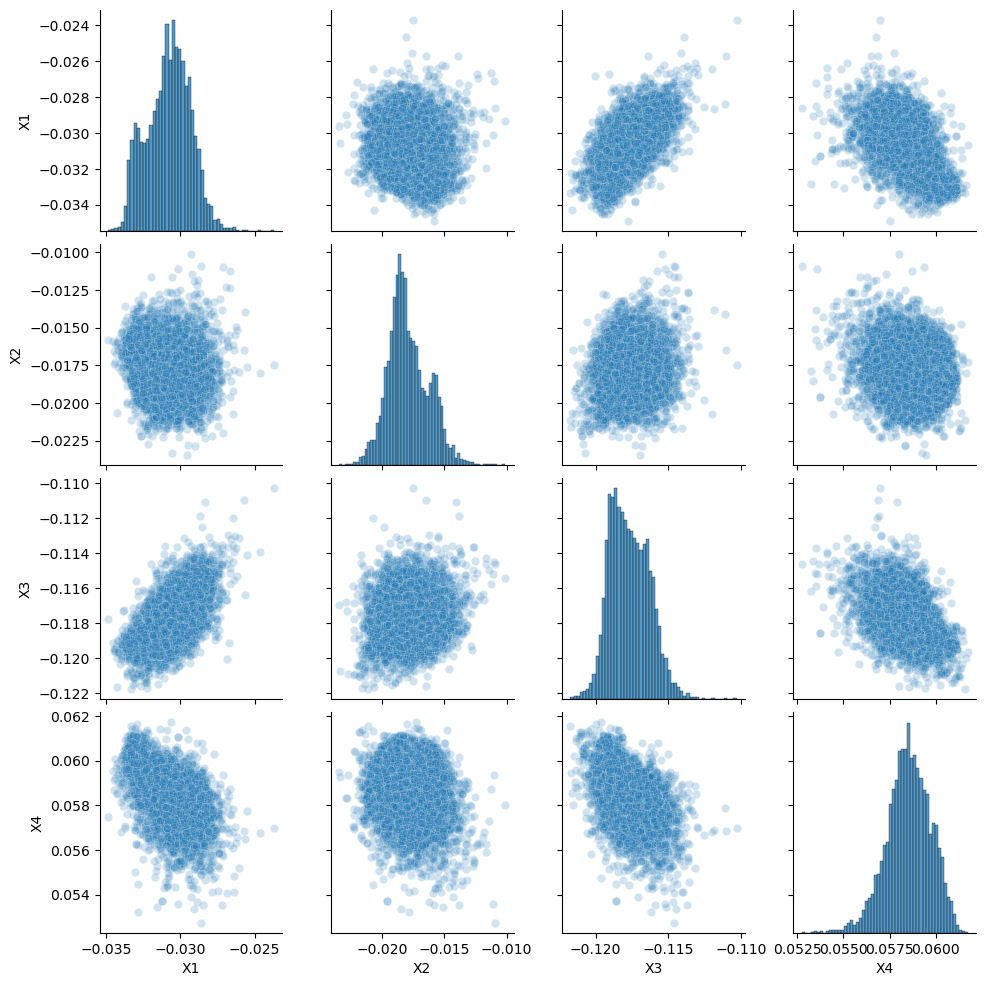
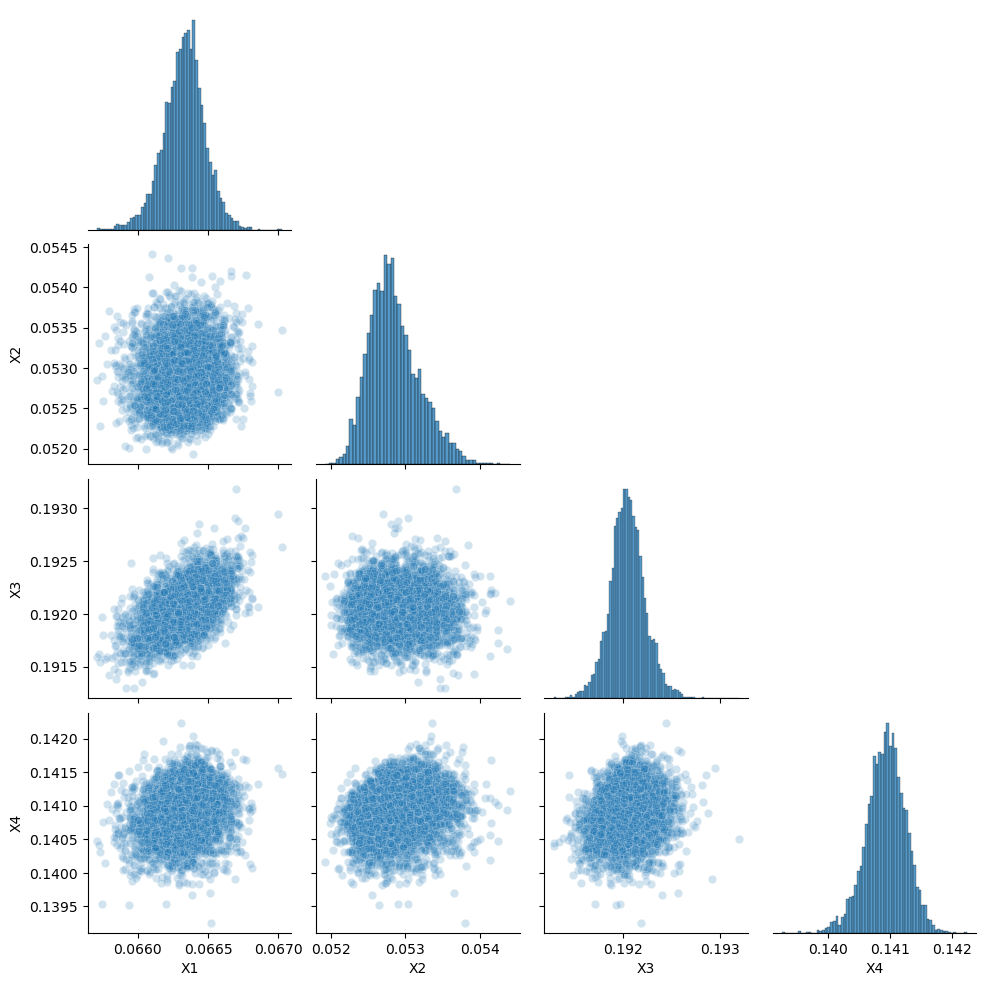
deeper model, saving latent space in csv

diff --git a/modelLib.py b/modelLib.py
@@ -47,21 +47,25 @@ class decodeBlock(nn.Module):
 class autoencoder(nn.Module):
     def __init__(self):
         super().__init__()
-        self.down1 = encodeBlock(1,3) # 1x64x64 > 3x16x16
-        self.down2 = encodeBlock(3,5) # 3x16x16 > 5x4x4
-        self.down3 = encodeBlock(5,4, last=True) # 5x4x4 > Nx1x1
-        self.up1 = decodeBlock(4,5) 
-        self.up2 = decodeBlock(5,3) 
-        self.up3 = decodeBlock(3,1, last=True) 
+        self.down1 = encodeBlock(1,3) # 1x256x256 > 3x64x64
+        self.down2 = encodeBlock(3,5) # 3x64x64 > 5x16x16
+        self.down3 = encodeBlock(5,7) # 5x16x16 > 7x4x4
+        self.down4 = encodeBlock(7,4) # 7x4x4 > Nx1x1
+        self.up1 = decodeBlock(4,7) 
+        self.up2 = decodeBlock(7,5) 
+        self.up3 = decodeBlock(5,3) 
+        self.up4 = decodeBlock(3,1) 
 
     def forward(self,x):
         x = self.down1(x)
         x = self.down2(x)
         x = self.down3(x)
+        x = self.down4(x)
         
         ls = x.flatten()
 
         x = self.up1(x)
         x = self.up2(x)
         x = self.up3(x)
+        x = self.up4(x)
         return ls, x     

diff --git a/dataLoader.py b/dataLoader.py
@@ -29,8 +29,8 @@ class myDataset(torch.utils.data.Dataset):
 
         self.transformIn = transforms.Compose([
                      transforms.Grayscale(num_output_channels=1),
-                     transforms.Resize(64),
-                     transforms.CenterCrop(64),
+                     transforms.Resize(256),
+                     transforms.CenterCrop(256),
                      transforms.ToTensor()])
         
     def __len__(self):
@@ -44,7 +44,7 @@ class myDataset(torch.utils.data.Dataset):
     def loadFromFile(self, filepath):
         img = Image.open(filepath)
         inImg = self.transformIn(img)
-        inImg = np.reshape(inImg, (1,1,64,64))
+        inImg = np.reshape(inImg, (1,1,256,256))
         return inImg
 
 # save checkpoint

diff --git a/predictAutoencoder.py b/predictAutoencoder.py
@@ -39,8 +39,11 @@ def assessAE(chkptFile):
         X4.append(ls[3].item())
 
     df = pd.DataFrame(data=list(zip(X1,X2,X3,X4)),columns=["X1","X2","X3","X4"])
-    plt = sns.pairplot(df, plot_kws={"alpha":0.2})
+    plt = sns.pairplot(df, corner=True, plot_kws={"alpha":0.2})
     plt.savefig(os.path.join(RESULTSDIR,"assessLatentSpace.png"))    
+
+    df["fileName"] = dataset.files
+    df.to_csv(os.path.join(RESULTSDIR,"reducedData.csv"))
 
 if __name__=="__main__":
     import sys

diff --git a/trainAutoencoder.py b/trainAutoencoder.py
@@ -15,7 +15,7 @@ loader_val = torch.utils.data.DataLoader(dataset_val, batch_size=BATCHSIZE, num_
 
 # Initialize ML Model
 model = autoencoder().to(DEVICE)
-print(summary(model, torch.zeros(1,1,64,64)))
+print(summary(model, torch.zeros(1,1,256,256)))
 
 reconLoss = torch.nn.MSELoss()
 optimizer = torch.optim.Adam(model.parameters())

diff --git a/environment.py b/environment.py
@@ -3,7 +3,7 @@ DATADIR = "./data"
 RESULTSDIR = "./results"
 BATCHSIZE = 4
 EPOCH0 = 0
-NEPOCHS = 200
+NEPOCHS = 50
 SAVEINTERVAL = 10
 RANDOMSEED = 42
 DATALIMIT = None

diff --git a/README.md b/README.md
@@ -7,3 +7,6 @@
 
 ### Latent Space Distribution
 ![model](./results/assessLatentSpace.png)
+
+### Latent Space Clusters
+![model](./resultss/clustersLatentSpace.png)
